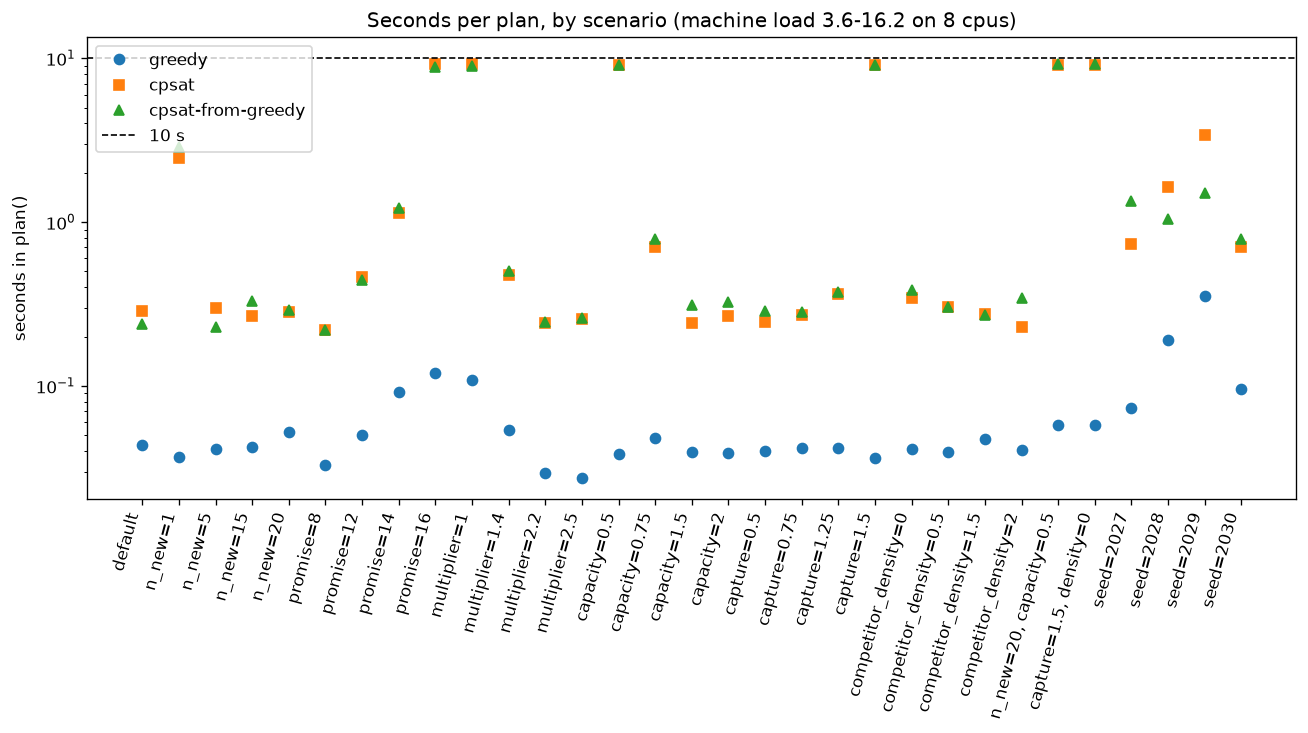
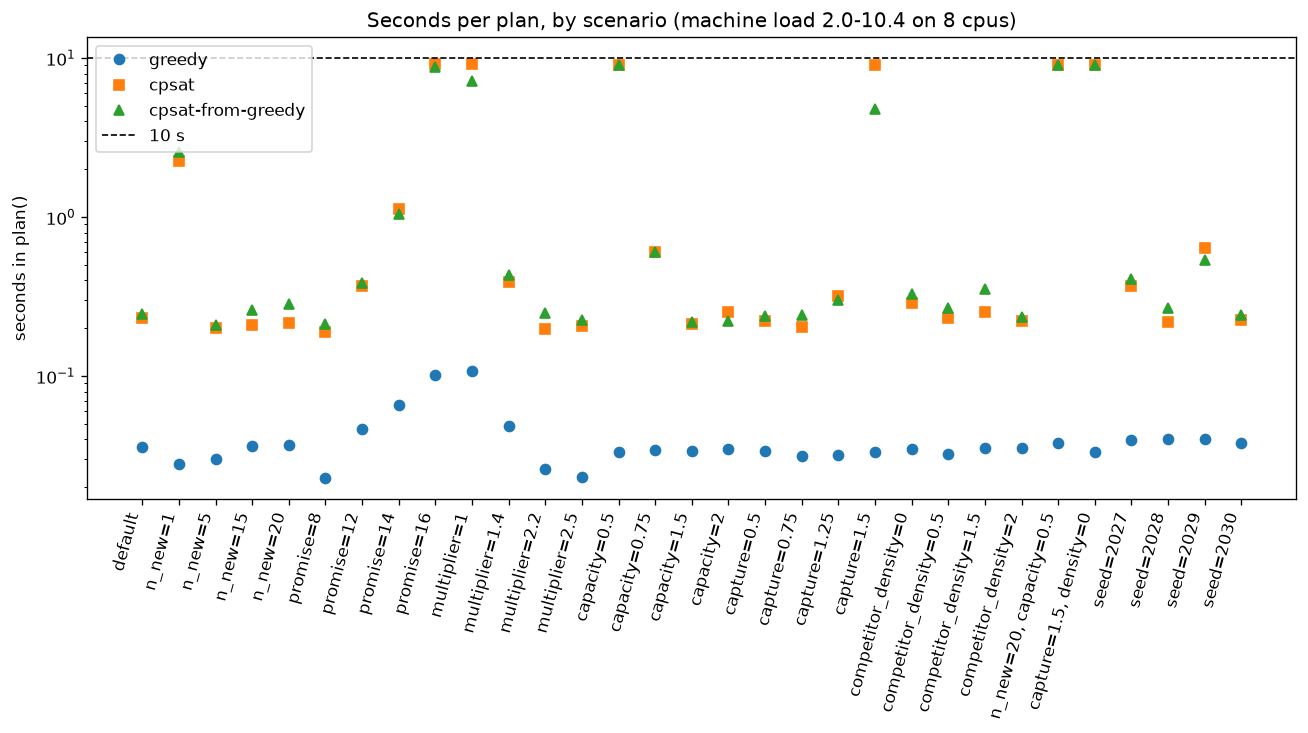
#30: 04-plan re-run with #33's model size cap and the capacity bound: every grid plan and six off-grid combinations (the box's worst corner included) within 10 s with a gap; decision log, roadmap and cuts updated

diff --git a/docs/decisions.md b/docs/decisions.md
@@ -3,36 +3,43 @@
 Newest first. One entry per decision: what was decided, why, and what it rules out. Big or
 hard-to-reverse decisions also get an ADR in `docs/adr/` (created when the first one is needed).
 
-## 2026-11-03: Plan (stage 2) benchmark: CP-SAT from greedy is served, promise narrowed to 8-16 (#30)
+## 2026-11-03: Plan (stage 2) benchmark: CP-SAT from greedy is served, promise narrowed to 8-16, a capacity bound for every CP-SAT plan (#30)
 
-- **Benchmark (`04-plan`, run 2026-11-03).** 31 scenarios on the full area (each lever swept with the others at the default, the
-  two hardest corners, 5 network seeds) × greedy, CP-SAT on its own and CP-SAT from greedy, through `plan()`. Every plan returned
-  within 10 s with its gap stated (slowest 9.23 s; greedy 0.03-0.35 s). CP-SAT from greedy was never below greedy and proved
-  optimality in 27 of 31; the other 4 (capacity 0.5×, capture 1.5×, both corners) stopped at the budget with gaps of 0.6-1.3%.
-  Its gain over greedy: median 0.14%, 0 in 11 scenarios, 4.7-5.3% where capacity binds or the market is largest. Load: started
-  after 5 min under 4 (3.8), rose to 16 by the end (CP-SAT's 8 workers about 8, other work the rest); the budget, not the
-  load, ends the time-limited solves, which return at 9.1-9.2 s. Slow-traffic coverage never exceeded demand covered in any of
-  the 93 plans, FEASIBLE ones included, so #33 item 1 stays as documented (no change to the computation).
-- **CP-SAT from greedy is the served variant.** CP-SAT on its own covered less in 2 scenarios (multiplier 1.0 by 31 orders a
-  day, capacity 0.5× by 336) and more in one (N 20 at capacity 0.5×, by 55). Its median time was 0.36 s vs 0.39 s (a repeat run: 0.29 s
-  vs 0.27 s, the other way), but the stage 2 rule serves it only if it is never worse on demand covered, so CP-SAT from greedy
-  stays. The repeat run (load 2.4-9.7) passed the same checks. It also never
-  returns UNKNOWN: with no solution in the budget it keeps greedy's plan.
-- **The promise range narrows from 8-20 to 8-16** (`assumptions.PROMISE_RANGE`; cuts.md). At 19 and 20, CP-SAT found no
-  solution in the budget in every run, so the plan carried no gap. At 18 the result changed run to run: one run took 10.46 s,
-  and 3 of 6 reported a 2,957% gap from a bound of 1.65 M orders a day (the area's demand is 89.7 k). 16 gave a usable gap in
-  every run (≤ 0.34%, 8.8-9.3 s, also at load 14). The travel-time table still keeps pairs to 17 free-flow min; nothing is rebuilt.
-- **The 10 s bar holds on the grid, not on every combination in the ranges.** 04-plan runs five in-range combinations off the
-  grid: all five returned greedy's plan with no gap (CP-SAT found no solution), and the two at multiplier 1.0 ran over 10 s,
-  mostly on the model build, which the budget doesn't cap (promise 16 × multiplier 1.0: 12.2 s, 10.3 s of build; promise 15 ×
-  multiplier 1.0: 10.2 s). The others: N 20 × capacity 0.5× at multiplier 1.0 or promise 16, and promise 16 × capture 1.5× at
-  density 0 (9.1-9.5 s). These go to #33 (a build cap, and a plan whose solver found nothing) rather than a further narrowing,
-  which would cost the multiplier range its quiet hours or the promise range most of its length.
+- **Benchmark (`04-plan`, final run 2026-11-03 08:51, with #33 merged).** 31 scenarios on the full area (each lever swept with the
+  others at the default, the two hardest corners, 5 network seeds) × greedy, CP-SAT on its own and CP-SAT from greedy, through
+  `plan()`. Every plan returned within 10 s with its gap stated (slowest 9.21 s; CP-SAT from greedy at most 9.07 s; greedy
+  0.02-0.11 s). CP-SAT from greedy was never below greedy and proved optimality in 28 of 31; the other 3 (capacity 0.5× and both
+  corners) stopped at the budget with gaps of 0.6-1.3%. Its gain over greedy: median 0.14%, 0 in 11 scenarios, 4.5-5.3% where
+  capacity binds or the market is largest. Load: started after 5 min under 4 (2.1), rose to 10.4 (CP-SAT's 8 workers add about 8);
+  the budget, not the load, ends the time-limited solves. Slow-traffic coverage never exceeded demand covered (0 of 93 plans before
+  #33's clamp, too).
+- **CP-SAT from greedy is the served variant.** CP-SAT on its own is not reliably never worse: in an earlier run of the grid it
+  trailed by 31 and 336 orders a day (multiplier 1.0, capacity 0.5×); in the final run it trailed in 3 scenarios by under 0.05
+  (rounding-level ties) and led where capacity binds. It was faster at the median in the final run (0.25 s vs 0.30 s), but the
+  stage 2 rule serves it only if it is never worse on demand covered, and on its own it can return no plan (UNKNOWN).
+- **Every CP-SAT plan with an objective states a bound** (`planning.capacity_bound`): the lower of the demand any open site
+  reaches and what the existing stores plus the N best candidate sites can serve, each at most min(capacity, the share it reaches).
+  It is valid for any choice of sites and any assignment, so it bounds demand covered too. The plan's bound is the lower of it and
+  CP-SAT's, never under the objective. This gives a gap where #33 left a kept greedy plan or an unbuilt model with none, and caps a
+  runaway solver bound (seen: 1.65 M orders a day against the area's 89.7 k). It is loose where CP-SAT finds nothing better than
+  greedy on a binding-capacity model (16-19% in the combinations below); the gap is honest, not tight.
+- **The promise range narrows from 8-20 to 8-16** (`assumptions.PROMISE_RANGE`; cuts.md), measured before #33's size cap and the
+  capacity bound: at 19 and 20, CP-SAT found no solution in the budget in every run, so the plan carried no gap; at 18 one run took
+  10.46 s and 3 of 6 reported a 2,957% gap; 16 gave a usable gap in every run. Both failure modes are now addressed (the size cap,
+  the capacity bound), so 17-20 may pass a re-measure; re-widening is left to that. The travel-time table still keeps pairs to
+  17 free-flow min; nothing is rebuilt.
+- **Combinations off the grid pass too.** 04-plan runs six in-range combinations that widen the free-flow reach, (promise − 3) /
+  multiplier, or bind capacity at a wide reach, including the box's worst corner (promise 16, multiplier 1.0, N 20, capacity 0.5×,
+  capture 1.5×, density 0). Before #33 and the capacity bound, promise 16 × multiplier 1.0 took 12.2 s (10.3 s of build) and five
+  of them stated no gap. Now all six return within 10 s (at most 9.70 s) with a gap: the wide-reach models are over the size cap,
+  so greedy's plan returns at once with gaps of 0.6-1.3%; the binding-capacity ones keep greedy's plan or a FEASIBLE one with gaps
+  of 16-19%.
 - **The brief's and CLAUDE.md's ≤ 10 s wording** now says what is measured: any scenario in the lever ranges, every metric
   included, its gap stated, measured on 04-plan's grid on an idle machine. It was "a new plan returns in ≤ 10 s" (brief) and
   "for the default scenario" (CLAUDE.md).
-- **Ruled out:** serving CP-SAT on its own (worse in 2 scenarios, can return UNKNOWN); keeping promise 18 (not repeatable within
-  10 s with a meaningful gap); a joint promise × multiplier limit on the scenario (a new lever rule; left to #33's fix).
+- **Ruled out:** serving CP-SAT on its own (not reliably never worse, can return UNKNOWN); keeping promise 18 before the fixes
+  (not repeatable within 10 s with a meaningful gap); a joint promise × multiplier limit on the scenario (the size cap covers it);
+  a tighter bound from a second solve (no time left in the budget).
 
 ## 2026-11-02: plan() edge contract: slow traffic clamped, an oversized model not built, HEURISTIC for greedy's plan, no infinite gap (#33)
 

diff --git a/docs/roadmap.md b/docs/roadmap.md
@@ -91,10 +91,10 @@ Scope set in the stage 2 grill, 2026-11-01 (see [decisions](decisions.md)).
   5 → 2.
 - **Done 2026-11-03:** `planning.plan()` (greedy, CP-SAT on its own, CP-SAT from greedy) with every metric, the 57-store
   two-brand network with the density lever, default multiplier 1.8. `04-plan` benchmarks 31 scenarios × 3 methods on the full
-  area: every plan within 10 s with its gap stated (slowest 9.23 s), CP-SAT from greedy never below greedy and optimal in 27
-  of 31, gain over greedy up to 5.3% where capacity binds. CP-SAT from greedy is served. The promise range is narrowed to
-  8-16 ([cuts](cuts.md)); in-range combinations off the grid (promise × multiplier 1.0, N 20 × capacity 0.5× at a wide reach)
-  return no gap and some run over 10 s; they go to #33 (see [decisions](decisions.md)).
+  area: every plan within 10 s with its gap stated (slowest 9.21 s), CP-SAT from greedy never below greedy and optimal in 28 of
+  31, gain over greedy up to 5.3% where capacity binds. Six combinations off the grid, the box's worst corner included, also
+  return within 10 s with a gap (#33's model size cap; a capacity bound when CP-SAT has none). CP-SAT from greedy is served. The
+  promise range is narrowed to 8-16 ([cuts](cuts.md)); see [decisions](decisions.md).
 
 ## 3. Compare and ship (week 4, to 25 Nov)
 

diff --git a/docs/cuts.md b/docs/cuts.md
@@ -7,7 +7,7 @@ promises more than exists. "Later" means it is on the [roadmap](roadmap.md) afte
 
 | Cut | Why | Status |
 | --- | --- | --- |
-| Promise lever 17-20 min (range 8-20 → 8-16) | at 19-20 CP-SAT finds no plan in the 10 s budget, so no gap can be stated; 17-18 not repeatable (a 10.46 s run, a meaningless bound); see 04-plan and the decision log | Later, with #33's build cap |
+| Promise lever 17-20 min (range 8-20 → 8-16) | at 19-20 CP-SAT finds no plan in the 10 s budget, so no gap can be stated; 17-18 not repeatable (a 10.46 s run, a meaningless bound); see 04-plan and the decision log | Later: re-measure 17-20 now that #33's size cap and the capacity bound (#30) address both failures |
 
 ## 2026-10-29, stage 0.5 decisions
 
